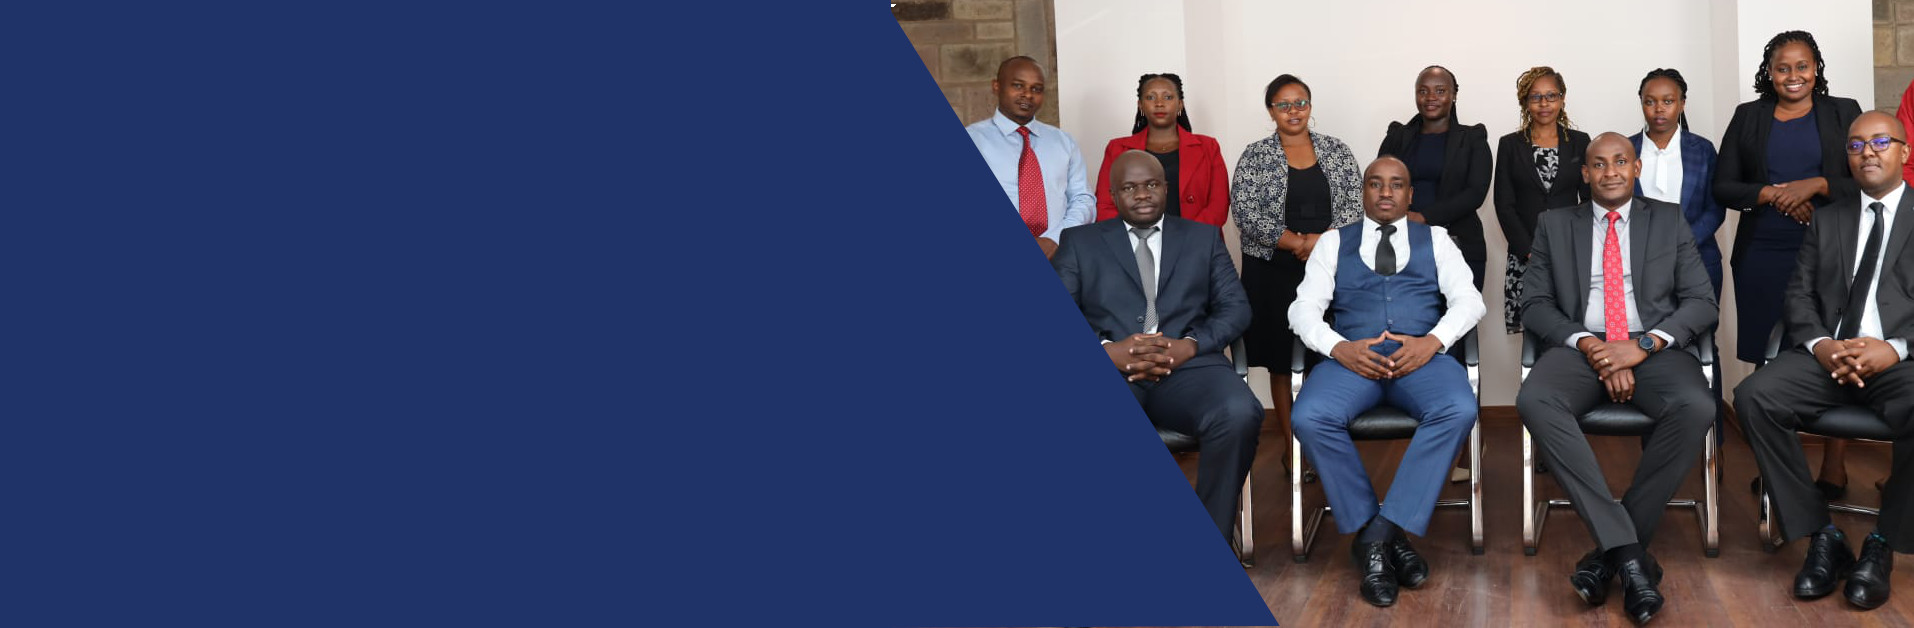
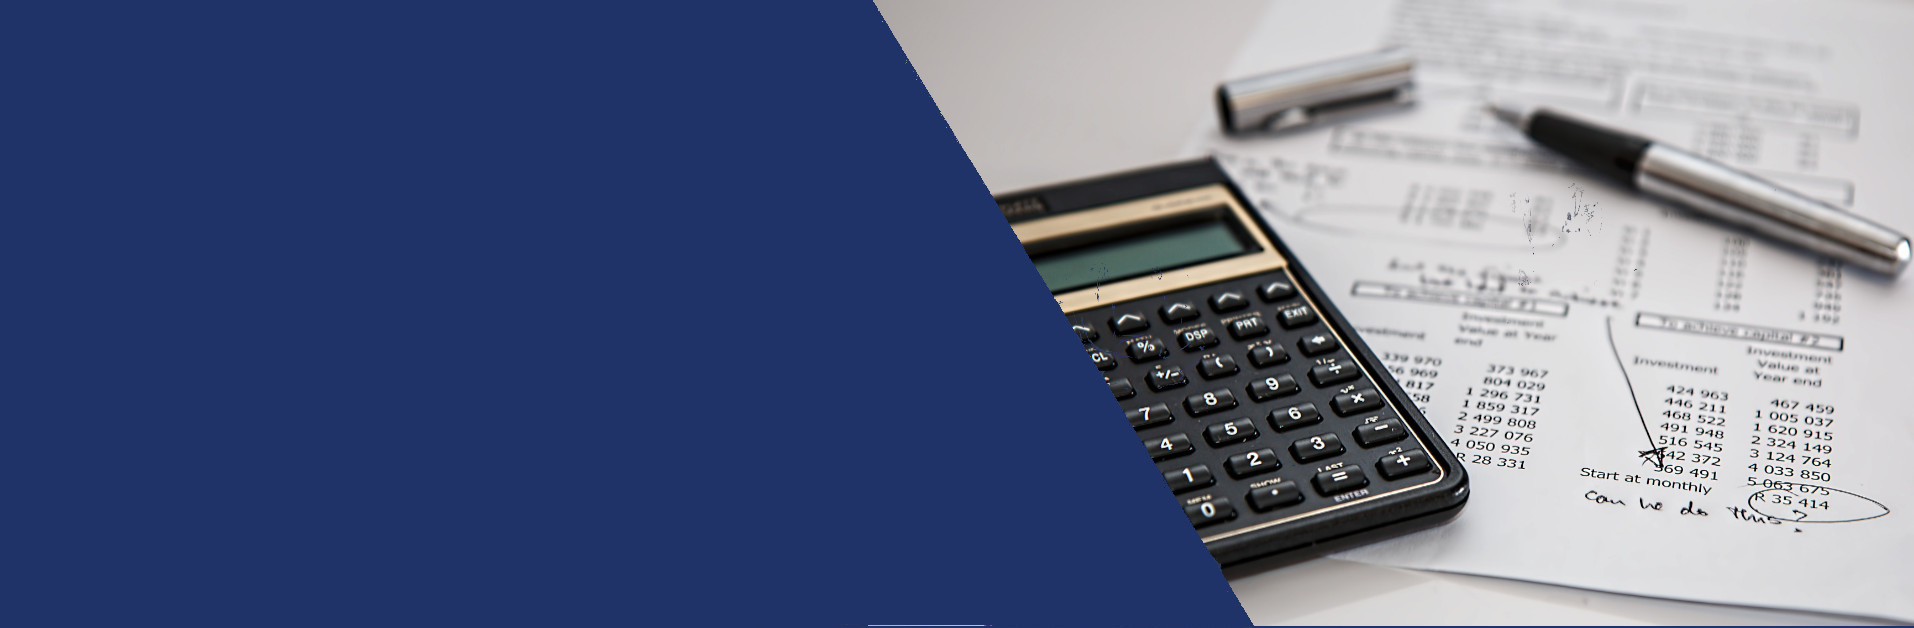
add service and group list orders

diff --git a/resources/views/user/services.blade.php b/resources/views/user/services.blade.php
@@ -47,19 +47,21 @@
                         <form class="settings-form row" method="post" enctype="multipart/form-data" action="{{ route('e.tax.add.group') }}">
                             @csrf
                             {{ \App\Models\User::showFormNotice($errors) }}
-                            <div class="mb-3 col-md-6">
-                                <label for="setting-input-1" class="form-label">Name <span class="ms-2" data-container="body" data-bs-toggle="popover" data-trigger="hover" data-placement="top" data-content="">
-                                    </span>
-                                </label>
+                            <div class="mb-3 col-md-4">
+                                <label class="form-label">Name</label>
                                 <input required type="text" name="name" class="form-control" id="setting-input-1" value="">
                             </div>
-                            <div class="mb-3 col-md-6">
+                            <div class="mb-3 col-md-4">
                                 <label for="setting-input-3" class="form-label">Service Artwork</label>
                                 <input required type="file" class="form-control" id="setting-input-2" name="artwork">
-
                             </div>
+                            <div class="mb-3 col-md-4">
+                                <label class="form-label">Order</label>
+                                <input required type="number" name="order" class="form-control">
+                            </div>
+
                             <div class="col-md-12" style="margin-top: 35px !important;">
-                                <label for="setting-input-1" class="form-label">Description
+                                <label class="form-label">Description
                                     <span class="ms-2" data-container="body" data-bs-toggle="popover" data-trigger="hover" data-placement="top" data-content="">
                                     </span>
                                 </label>
@@ -80,7 +82,7 @@
                             <table class="table app-table-hover mb-0 text-left reportable">
                                 <thead>
                                     <tr>
-                                        <th class="cell">ID</th>
+                                        <th class="cell">#Order</th>
                                         <th class="cell">Name</th>
                                         <th class="cell">Status</th>
                                         <th class="cell"></th>
@@ -89,7 +91,7 @@
                                 <tbody>
                                     @foreach( $groups as $_group )
                                     <tr>
-                                        <td class="cell">#{{ $_group['id'] }}</td>
+                                        <td class="cell">#{{ $_group['order'] }}</td>
                                         <td class="cell">
                                             <span class="truncate">{{ $_group['name'] }}</span>
                                         </td>
@@ -136,27 +138,31 @@
                             @csrf
                             {{ \App\Models\User::showFormNotice($errors) }}
                             <div class="mb-3 col-md-4">
-                                <label for="setting-input-1" class="form-label">Name <span class="ms-2" data-container="body" data-bs-toggle="popover" data-trigger="hover" data-placement="top" data-content="">
+                                <label class="form-label">Name <span class="ms-2" data-container="body" data-bs-toggle="popover" data-trigger="hover" data-placement="top" data-content="">
                                     </span>
                                 </label>
                                 <input required type="text" name="name" class="form-control" id="setting-input-1" value="">
                             </div>
                             <div class="mb-3 col-md-4">
-                                <label for="setting-input-2" class="form-label">
+                                <label class="form-label">
                                     Deposit(if price is not known)
                                 </label>
                                 <input required type="number" class="form-control" id="setting-input-2" name="deposit">
                             </div>
                             <div class="mb-3 col-md-4">
-                                <label for="setting-input-2" class="form-label">Exact Price(Leave deposit blank)</label>
+                                <label class="form-label">Exact Price(Leave deposit blank)</label>
                                 <input required type="number" class="form-control" id="setting-input-2" name="price">
                             </div>
 
-                            <div class="mb-3 col-md-4">
-                                <label for="setting-input-2" class="form-label">Delivery Time</label>
+                            <div class="mb-3 col-md-3">
+                                <label class="form-label">Order</label>
+                                <input required type="number" class="form-control" id="setting-input-2" placeholder="1" name="order">
+                            </div>
+                            <div class="mb-3 col-md-3">
+                                <label class="form-label">Delivery Time</label>
                                 <input required type="text" class="form-control" id="setting-input-2" placeholder="24 Hours" name="delivery_time">
                             </div>
-                            <div class="mb-3 col-md-4">
+                            <div class="mb-3 col-md-3">
                                 <label for="setting-input-3" class="form-label">Service Group</label>
                                 <select class="form-control w-auto" name="type" required>
                                     <option value="">Select group</option>
@@ -165,7 +171,7 @@
                                     @endforeach
                                 </select>
                             </div>
-                            <div class="mb-3 col-md-4">
+                            <div class="mb-3 col-md-3">
                                 <label for="setting-input-3" class="form-label">Service Artwork</label>
                                 <input required type="file" class="form-control" id="setting-input-2" name="artwork">
                             </div>
@@ -188,7 +194,7 @@
                             <table class="table app-table-hover mb-0 text-left reportable">
                                 <thead>
                                     <tr>
-                                        <th class="cell">ID</th>
+                                        <th class="cell">#Order</th>
                                         <th class="cell">Name</th>
                                         <th class="cell">Group</th>
                                         <th class="cell">Price</th>
@@ -199,7 +205,7 @@
                                 <tbody>
                                     @foreach( $all as $_all )
                                     <tr>
-                                        <td class="cell">#{{ $_all['id'] }}</td>
+                                        <td class="cell">#{{ $_all['order'] }}</td>
                                         <td class="cell">
                                             <span class="truncate">{{ $_all['name'] }}</span>
                                         </td>

diff --git a/resources/views/user/edit_group.blade.php b/resources/views/user/edit_group.blade.php
@@ -38,17 +38,19 @@
                         <form class="settings-form row" method="post" enctype="multipart/form-data" action="{{ route('e.tax.edit.group', ['id' => $service->id ]) }}">
                             @csrf
                             {{ \App\Models\User::showFormNotice($errors) }}
-                            <div class="mb-3 col-md-6">
-                                <label for="setting-input-1" class="form-label">Name <span class="ms-2" data-container="body" data-bs-toggle="popover" data-trigger="hover" data-placement="top" data-content="">
-                                    </span>
-                                </label>
-                                <input required type="text" name="name" class="form-control" id="setting-input-1" value="{{ $service->name }}">
+                            <div class="mb-3 col-md-4">
+                                <label for="setting-input-1" class="form-label">Name</label>
+                                <input required type="text" name="name" class="form-control" value="{{ $service->name }}">
                             </div>
-                            <div class="mb-3 col-md-6">
+                            <div class="mb-3 col-md-4">
                                 <label for="setting-input-3" class="form-label">Service Artwork</label>
-                                <input type="file" class="form-control" id="setting-input-2" name="artwork">
-
+                                <input type="file" class="form-control" name="artwork">
                             </div>
+                            <div class="mb-3 col-md-4">
+                                <label for="setting-input-1" class="form-label">Order</label>
+                                <input required type="number" name="order" class="form-control" value="{{ $service->order }}">
+                            </div>
+
                             <div class="col-md-12" style="margin-top: 35px !important;">
                                 <label for="setting-input-1" class="form-label">Description
                                     <span class="ms-2" data-container="body" data-bs-toggle="popover" data-trigger="hover" data-placement="top" data-content="">

diff --git a/resources/views/outer/slider.blade.php b/resources/views/outer/slider.blade.php
@@ -14,7 +14,7 @@
             <button type="button" data-bs-target="#carouselExampleIndicators" data-bs-slide-to="0" class="active" aria-current="true" aria-label="Slide 1"></button>
             <button type="button" data-bs-target="#carouselExampleIndicators" data-bs-slide-to="1" aria-label="Slide 2"></button>
             <button type="button" data-bs-target="#carouselExampleIndicators" data-bs-slide-to="2" aria-label="Slide 3"></button>
-            <button type="button" data-bs-target="#carouselExampleIndicators" data-bs-slide-to="3" aria-label="Slide 4"></button>
+            <!-- <button type="button" data-bs-target="#carouselExampleIndicators" data-bs-slide-to="3" aria-label="Slide 4"></button> -->
         </div>
         <div class="carousel-inner">
             <div class="carousel-item active">
@@ -50,7 +50,7 @@
                     </div>
                 </div>
             </div>
-            <div class="carousel-item">
+            <!-- <div class="carousel-item">
                 <img src="{{ asset('assets/images/slider/slider4.jpg') }}" class="d-block w-100" alt="EasyTax offers">
                 <div class="carousel-caption d-none d-md-block">
                     <div class="sl-subtitle">We Are</div>
@@ -60,7 +60,7 @@
                         <a class="readon consultant slider" href="#step-one">Browse Our services</a>
                     </div>
                 </div>
-            </div>
+            </div> -->
         </div>
         <button class="carousel-control-prev" type="button" data-bs-target="#carouselExampleIndicators" data-bs-slide="prev">
             <span class="carousel-control-prev-icon" aria-hidden="true"></span>

diff --git a/app/Http/Controllers/User/ServiceController.php b/app/Http/Controllers/User/ServiceController.php
@@ -34,6 +34,7 @@ class ServiceController extends Controller
     {
         $validator = Validator::make($request->all(), [
             'name' => 'required|string|max:255',
+            'order' => 'required|integer',
             'description' => 'required|string',
             'deposit' => 'required|integer',
             'price' => 'required|integer',
@@ -78,6 +79,7 @@ class ServiceController extends Controller
     {
         $validator = Validator::make($request->all(), [
             'name' => 'required|string|max:255',
+            'order' => 'required|integer',
             'description' => 'required|string',
             'deposit' => 'required|integer',
             'price' => 'required|integer',
@@ -134,19 +136,19 @@ class ServiceController extends Controller
     {
         switch ($case) {
             case 1:
-                $data = Service::all();
+                $data = Service::orderBy('order')->get();
                 if (is_object($data)) {
                     return $data->toArray();
                 }
                 break;
             case 2:
-                $data = Service::where('enabled', true)->get();
+                $data = Service::where('enabled', true)->orderBy('order')->get();
                 if (is_object($data)) {
                     return $data->toArray();
                 }
                 break;
             case 3:
-                $data = Service::where('enabled', false)->get();
+                $data = Service::where('enabled', false)->orderBy('order')->get();
                 if (is_object($data)) {
                     return $data->toArray();
                 }

diff --git a/app/Models/User.php b/app/Models/User.php
@@ -212,7 +212,7 @@ class User extends Authenticatable
     }
     public static function getServiceGroups()
     {
-        $data = ServiceGroup::where('enabled', true)->get();
+        $data = ServiceGroup::where('enabled', true)->orderBy('order')->get();
         if (is_object($data)) {
             return $data->toArray();
         }
@@ -220,7 +220,7 @@ class User extends Authenticatable
     }
     public static function getServicesByGroup($group)
     {
-        $data = Service::where('enabled', true)->where('type', $group)->get();
+        $data = Service::where('enabled', true)->where('type', $group)->orderBy('order')->get();
         if (is_object($data)) {
             return $data->toArray();
         }
@@ -230,19 +230,19 @@ class User extends Authenticatable
     {
         switch ($case) {
             case 1:
-                $data = Service::all();
+                $data = Service::orderBy('order')->get();
                 if (is_object($data)) {
                     return $data->toArray();
                 }
                 break;
             case 2:
-                $data = Service::where('enabled', true)->get();
+                $data = Service::where('enabled', true)->orderBy('order')->get();
                 if (is_object($data)) {
                     return $data->toArray();
                 }
                 break;
             case 3:
-                $data = Service::where('enabled', false)->get();
+                $data = Service::where('enabled', false)->orderBy('order')->get();
                 if (is_object($data)) {
                     return $data->toArray();
                 }

diff --git a/app/Http/Controllers/User/ServiceGroupsController.php b/app/Http/Controllers/User/ServiceGroupsController.php
@@ -20,6 +20,7 @@ class ServiceGroupsController extends Controller
     {
         $validator = Validator::make($request->all(), [
             'name' => 'required|string|max:255',
+            'order' => 'required|integer',
             'description' => 'required|string',
         ]);
         if ($validator->fails()) {
@@ -51,6 +52,7 @@ class ServiceGroupsController extends Controller
     {
         $validator = Validator::make($request->all(), [
             'name' => 'required|string|max:255',
+            'order' => 'required|integer',
             'description' => 'required|string',
         ]);
         if ($validator->fails()) {
@@ -86,19 +88,19 @@ class ServiceGroupsController extends Controller
     {
         switch ($case) {
             case 1:
-                $data = ServiceGroup::all();
+                $data = ServiceGroup::orderBy('order')->get();
                 if (is_object($data)) {
                     return $data->toArray();
                 }
                 break;
             case 2:
-                $data = ServiceGroup::where('enabled', true)->get();
+                $data = ServiceGroup::where('enabled', true)->orderBy('order')->get();
                 if (is_object($data)) {
                     return $data->toArray();
                 }
                 break;
             case 3:
-                $data = ServiceGroup::where('enabled', false)->get();
+                $data = ServiceGroup::where('enabled', false)->orderBy('order')->get();
                 if (is_object($data)) {
                     return $data->toArray();
                 }

diff --git a/resources/views/outer/nav.blade.php b/resources/views/outer/nav.blade.php
@@ -46,6 +46,16 @@
         .full-width-header .rs-header .menu-area .main-menu .rs-menu ul.nav-menu li.menu-item-has-children>a:before {
             top: 34%;
         }
+
+        .container-fluid {
+            padding-left: 40px !important;
+            padding-right: 40px !important;
+        }
+
+        .svc-sub-menu {
+            line-height: 20px !important;
+            font-size: 13px !important;
+        }
     </style>
     <!-- Topbar Area Start -->
     <div class="topbar-area style1">
@@ -89,7 +99,7 @@
 
     <!-- Menu Start -->
     <div class="menu-area menu-sticky">
-        <div class="container custom logo-hd-holder">
+        <div class="container-fluid custom logo-hd-holder">
             <div class="row-table">
                 <div class="col-cell header-logo">
                     <div class="logo-area">
@@ -112,7 +122,7 @@
                                         <a href="{{ route('w.s.category', ['id' => $_group['id']]) }}">{{ $_group['name'] }}</a>
                                         <ul class="sub-menu">
                                             @foreach( $group_services as $_service )
-                                            <li><a href="{{ route('w.s.service', ['id' => $_service['id']]) }}">{{ $_service['name'] }}</a></li>
+                                            <li><a class="svc-sub-menu" href="{{ route('w.s.service', ['id' => $_service['id']]) }}">{{ $_service['name'] }}</a></li>
                                             @endforeach
                                         </ul>
                                     </li>

diff --git a/resources/views/user/edit_service.blade.php b/resources/views/user/edit_service.blade.php
@@ -56,6 +56,10 @@
                                 <input required type="number" class="form-control" id="setting-input-2" name="price" value="{{  $service->price }}">
                             </div>
                             <div class="mb-3 col-md-4">
+                                <label class="form-label">Order</label>
+                                <input required type="number" class="form-control" id="setting-input-2" value="{{  $service->order }}" name="order">
+                            </div>
+                            <div class="mb-3 col-md-4">
                                 <label for="setting-input-2" class="form-label">Delivery Time</label>
                                 <input required type="text" class="form-control" id="setting-input-2" placeholder="24 Hours" name="delivery_time" value="{{  $service->delivery_time }}">
                             </div>

diff --git a/database/migrations/2022_09_18_085727_add_order_to_services_table.php b/database/migrations/2022_09_18_085727_add_order_to_services_table.php
@@ -1,0 +1,32 @@
+<?php
+
+use Illuminate\Database\Migrations\Migration;
+use Illuminate\Database\Schema\Blueprint;
+use Illuminate\Support\Facades\Schema;
+
+class AddOrderToServicesTable extends Migration
+{
+    /**
+     * Run the migrations.
+     *
+     * @return void
+     */
+    public function up()
+    {
+        Schema::table('services', function (Blueprint $table) {
+            $table->smallInteger('order')->default(1);
+        });
+    }
+
+    /**
+     * Reverse the migrations.
+     *
+     * @return void
+     */
+    public function down()
+    {
+        Schema::table('services', function (Blueprint $table) {
+            //
+        });
+    }
+}

diff --git a/resources/views/layouts/outer.blade.php b/resources/views/layouts/outer.blade.php
@@ -107,7 +107,7 @@
 
             .full-width-header .rs-header .menu-area .main-menu .rs-menu ul.nav-menu li a {
                 height: 40px !important;
-                line-height: 32px !important;
+                line-height: 32px;
                 border-radius: 0px !important;
                 margin-top: 0px !important;
             }

diff --git a/app/Models/Service.php b/app/Models/Service.php
@@ -18,6 +18,7 @@ class Service extends Model
         'enabled',
         'description',
         'type_name',
+        'order',
         'delivery_time'
     ];
 }

diff --git a/app/Models/ServiceGroup.php b/app/Models/ServiceGroup.php
@@ -13,6 +13,7 @@ class ServiceGroup extends Model
         'name',
         'artwork',
         'description',
+        'order',
         'enabled'
     ];
 }
